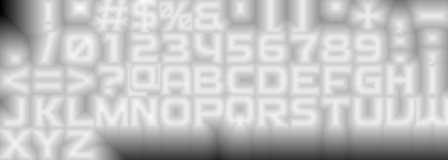
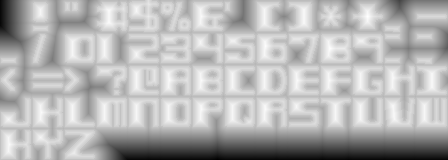
More fonts

diff --git a/src/emul/graphics.cpp b/src/emul/graphics.cpp
@@ -884,13 +884,14 @@ void DoRotoscope(std::vector<uint32_t>& windowData, const std::vector<Rotoscope>
 
                     auto glyph = bilinearSample(FONT1Texture, u, v);
                     pixel = colortable[roto.textData.bgColor & 0xf];
-                    if(glyph.r > 0.85f)
+                    if(glyph.r > 0.80f)
                     {
                         pixel = colortable[roto.textData.fgColor & 0xf];
                     }
+                    #if 0
                     else
                     {
-                        #if 0
+                        #if 1
                         uint32_t r = static_cast<uint32_t>(fontX * 255);
                         uint32_t g = static_cast<uint32_t>(fontY * 255);
                         uint32_t b = 0;
@@ -899,14 +900,15 @@ void DoRotoscope(std::vector<uint32_t>& windowData, const std::vector<Rotoscope>
                         pixel = (a << 24) | (r << 16) | (g << 8) | b;
                         #endif
                     }
+                    #endif
                 } else if (roto.textData.fontNum == 2)
                 {
                     // Find the character in our atlas.
                     constexpr float fontSpaceWidth = 15.0f * 4.0f;
-                    constexpr float fontSpaceHeight = 9.0f * 4.0f;
+                    constexpr float fontSpaceHeight = 11.0f * 4.0f;
 
                     constexpr float atlasWidth = 840.0f;
-                    constexpr float atlasHeight = 180.0f;
+                    constexpr float atlasHeight = 220.0f;
 
                     uint32_t c = roto.textData.character - 32;
                     uint32_t fontsPerRow = 840 / (int)fontSpaceWidth;
@@ -919,7 +921,7 @@ void DoRotoscope(std::vector<uint32_t>& windowData, const std::vector<Rotoscope>
                     u += fontX * (fontSpaceWidth / atlasWidth);
                     v += fontY * (fontSpaceHeight / atlasHeight);
 
-                    auto glyph = bilinearSample(FONT2Texture, u, v);
+                    auto glyph = bilinearSample(FONT3Texture, u, v);
                     pixel = colortable[roto.textData.bgColor & 0xf];
                     if(glyph.r > 0.9f)
                     {

diff --git a/font-ttf.py b/font-ttf.py
@@ -23,7 +23,7 @@ font_table = {
 }
 
 # Load the TTF file
-font = ImageFont.truetype('HEXCO.ttf', 40)  # Adjust the size as needed
+font = ImageFont.truetype('phorfeir.ttf', 42)  # Adjust the size as needed
 
 def draw_char(c):
     # Create a blank image
@@ -34,8 +34,8 @@ def draw_char(c):
     w, h = draw.textsize(c, font=font)
     
     # Calculate the starting point to center the glyph
-    start_x = (img.width - w) / 2
-    start_y = (img.height - h) / 2
+    start_x = -1 #(img.width - w) / 2
+    start_y = -4 # (img.height - h) / 2
     
     # Draw the character
     draw.text((start_x, start_y), c, font=font, fill=0, align='center')
